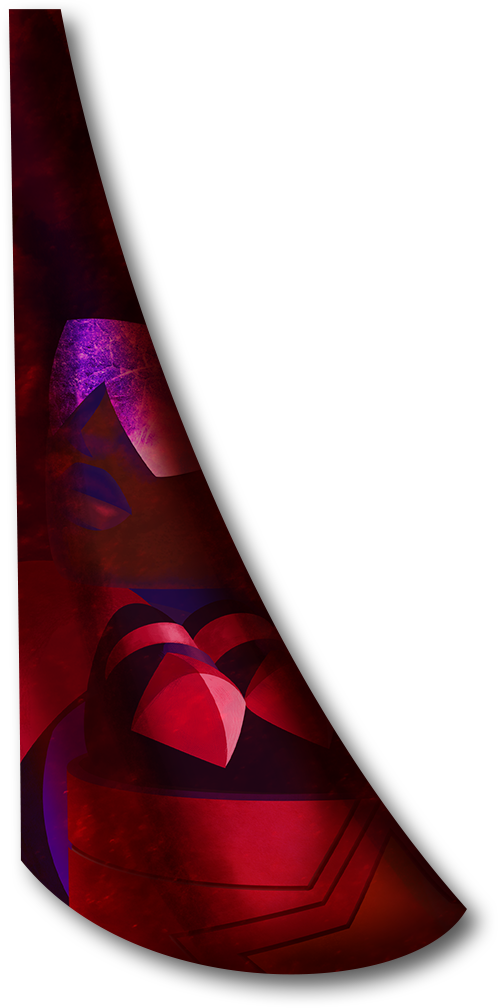
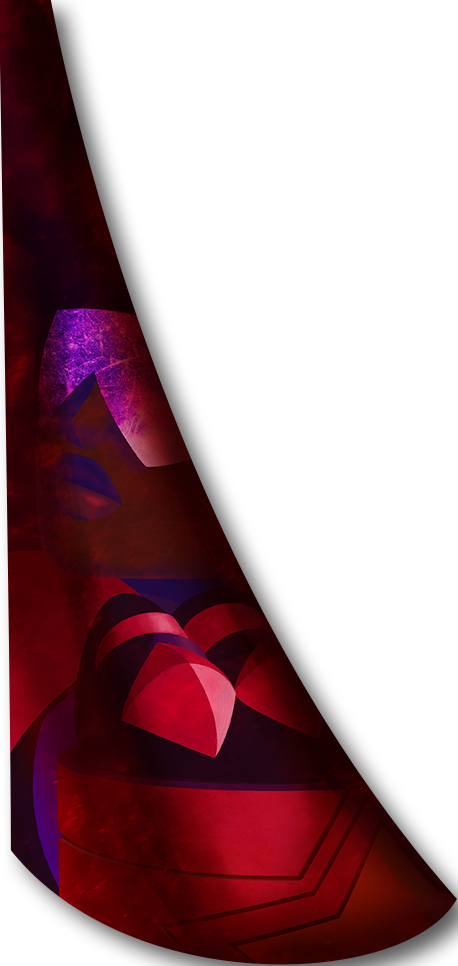
adding javascript for better control

diff --git a/css/style.css b/css/style.css
@@ -1,6 +1,5 @@
 body {
 	margin:0;
-	margin-top:-1%;
 	padding:0;
 }
 
@@ -9,6 +8,7 @@ body {
 	padding:0;
 	top:0;
 	background-image:url(images/backgroundsolo.png);
+	background-size:1933px 1333px;
 	width:100%;
 	height:100vh;
 	z-index:1;
@@ -19,6 +19,7 @@ body {
 	background: -o-radial-gradient(circle, rgba(0,0,0,0), rgba(0,0,0,1) 85%); /* For Opera 11.6 to 12.0 */
   	background: -moz-radial-gradient(circle, rgba(0,0,0,0), rgba(0,0,0,1) 85%); /* For Firefox 3.6 to 15 */
   	background: radial-gradient(circle, rgba(0,0,0,0), rgba(0,0,0,1) 85%); /* Standard syntax */
+  	background-size:cover;
 	width:100%;
 	height:100vh;
 	position:absolute;
@@ -26,9 +27,9 @@ body {
 }
 
 .navbar {
-	width:60%;
+	width:40%;
 	max-width:660px;
-	padding-top:10vh;
+	top:8%;
 	margin-left:auto;
 	margin-right:auto;
 	position:relative;
@@ -66,10 +67,12 @@ body {
 	position:relative;
 	background-image: url(images/backdropcurtain.png);
 	background-repeat:no-repeat;
-	background-size:100% auto;
-	width:75%;
+	background-size:100% 100%;
+	top:8%;
+	margin-top:.5vw;
+	width:70%;
 	max-width:800px;
-	height:80%;
+	height:100%;
 	max-height:800px;
 	margin-left:auto;
 	margin-right:auto;
@@ -78,7 +81,14 @@ body {
 }
 
 .centercurtains {
-	position:absolute;
+	position:relative;
+	margin-top:.5vw;
+	margin-right:0;
+	width:90%;
+	max-width:800px;
+	height:90%;
+	max-height:800px;
+	left:7.5%;
 }
 
 
@@ -86,52 +96,49 @@ body {
 	display:inline-block;
 	position:absolute;
 	height:100%;
-	width:auto;
-}
-
-.curtains > img {
-	height:100%;
-	width: auto;
-	position:absolute;
+	background-repeat:no-repeat;
+	top:3%;
 }
 
 #curtain4 {
-	margin-left:25%;
+	transform:translateX(-75%) translateY(-2.5%);
+	margin-left:35%;
+	background-image: url(images/curtain4.png);
+	background-size: 100% auto;
+	width:50%;
 }
 
-	#cdigital {
-		transform:translateX(-75%) translateY(-2.5%);
-	}
 
 #curtain3 {
-	margin-left:50%;
+  	background-size: 100% auto;
+  	width: 30%;
+  	left: 47%;
 }
 
-	#cabout {
-
-	}
 
 #curtain2 {
-	float:right;
-	right:60%;
+  	left: 51%;
+  	background-image: url(images/curtain2.png);
+  	background-size: 100% auto;
+  	width: 30%;
 }
 
 #curtain1 {
-	float:right;
-	right:45%;
+	left: 49%;
+  	background-image: url(images/curtain1.png);
+  	background-size: 100% auto;
+  	width: 60%;
 }
 
-#cpaint {
-}
 
 .centerboard {
 	background-image: url(images/top_center_board.png);
 	width:25%;
-	height:40%;
-	transform:translateY(-40%);
+	height:26%;
+	transform:translateY(-50%) translateX(-50%);
 	background-size:100% auto;
-	margin-left:auto;
-	margin-right:auto;
+	left:50%;
+	top:5%;
 	position:absolute;
 	z-index:15;
 	display:inline-block;
@@ -145,4 +152,14 @@ body {
 
 .rcurtainfiligree {
 	
+}
+
+.dowel {
+	width: 84.5%;
+  	left: 7.5%;
+  	height: 1.5vw;
+  	background-image: url(images/dowel.png);
+	 background-size: 100% auto;
+	 position: absolute;
+	 background-repeat: no-repeat;
 }

diff --git a/index.html b/index.html
@@ -4,6 +4,8 @@
 	<meta charset="UTF-8">
 	<title>Document</title>
 	<link rel="stylesheet" type="text/css" href="css/style.css">
+	<script src="http://code.jquery.com/jquery-2.1.4.min.js"></script>
+	<script src="script.js"></script>
 </head>
 <body>
 <section class="background"></section>
@@ -37,11 +39,11 @@
 			<div class="dowel"></div>
 			<div class="lcurtainfiligree"></div>
 			<div class="rcurtainfiligree"></div>
-			<div class="center curtains">
-				<div id="curtain1" class="curtains"><img id="cpaint" src="css/images/curtain1.png" alt="Paintings"> </div>
-				<div id="curtain2" class="curtains"><img id="cdesign" src="css/images/curtain2.png" alt="Web Design"></div>
-				<div id="curtain3" class="curtains"><img id="cabout" src="css/images/curtain3.png" alt="About Me"></div>
-				<div id="curtain4" class="curtains"><img id="cdigital" src="css/images/curtain4.png" alt="Photomanipulation"></div>
+			<div class="centercurtains">
+				<div id="curtain1" class="curtains" alt="paintings"></div>
+				<div id="curtain2" class="curtains"></div>
+				<div id="curtain3" class="curtains"></div>
+				<div id="curtain4" class="curtains"></div>
 			</div>
 		</div>
 	</section>

diff --git a/script.js b/script.js
@@ -1,0 +1,12 @@
+
+var cw = $('.c-backdrop').width();
+var cwp = $(cw*.1);
+	$('.c-backdrop').css({
+    'height': cw + 'px'
+	});
+
+var ch = $('.c-backdrop').height();
+var chp = $(ch*.1);
+	$('.curtains').css({
+		'height': ch + 'px'
+	});
